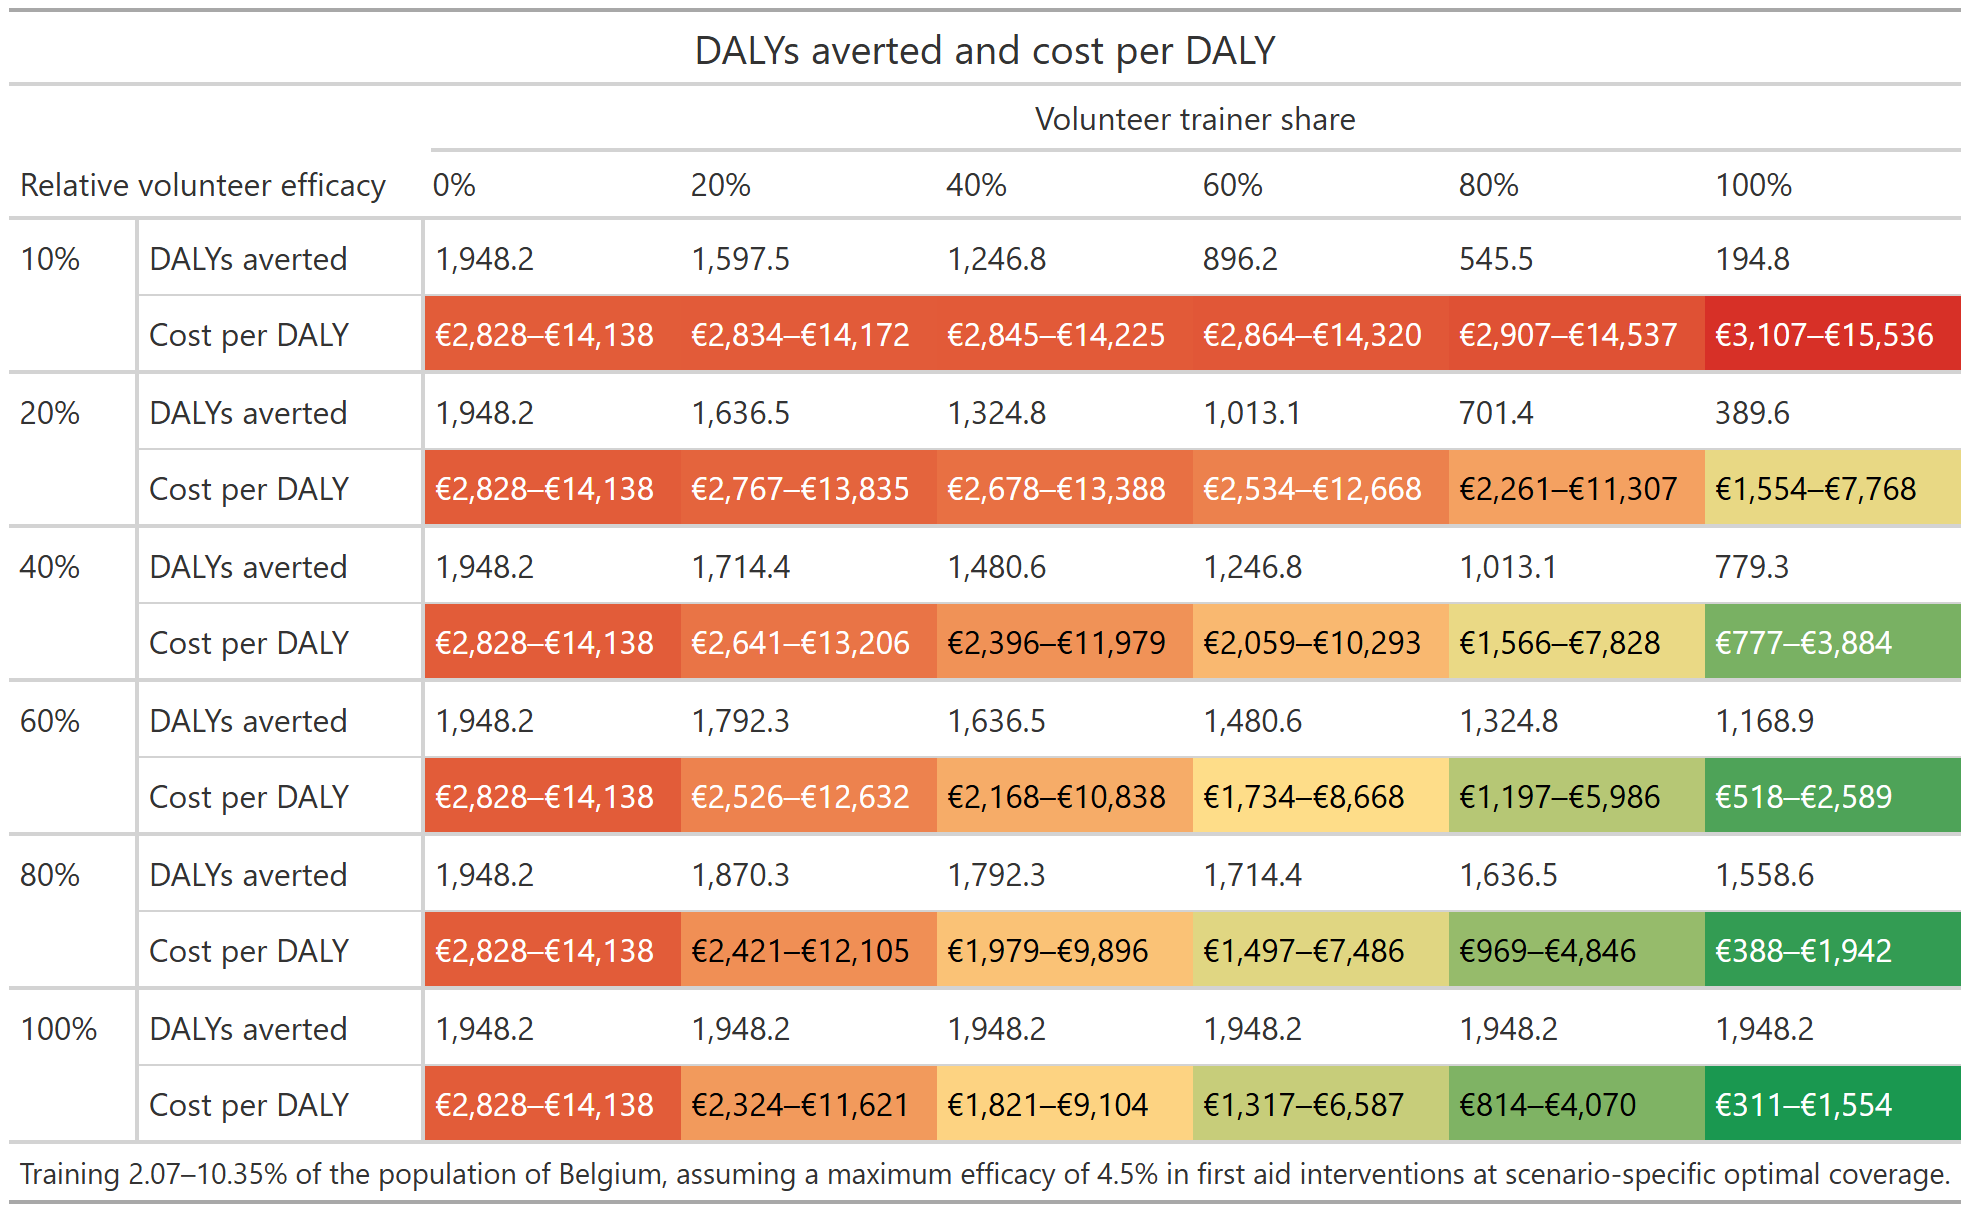
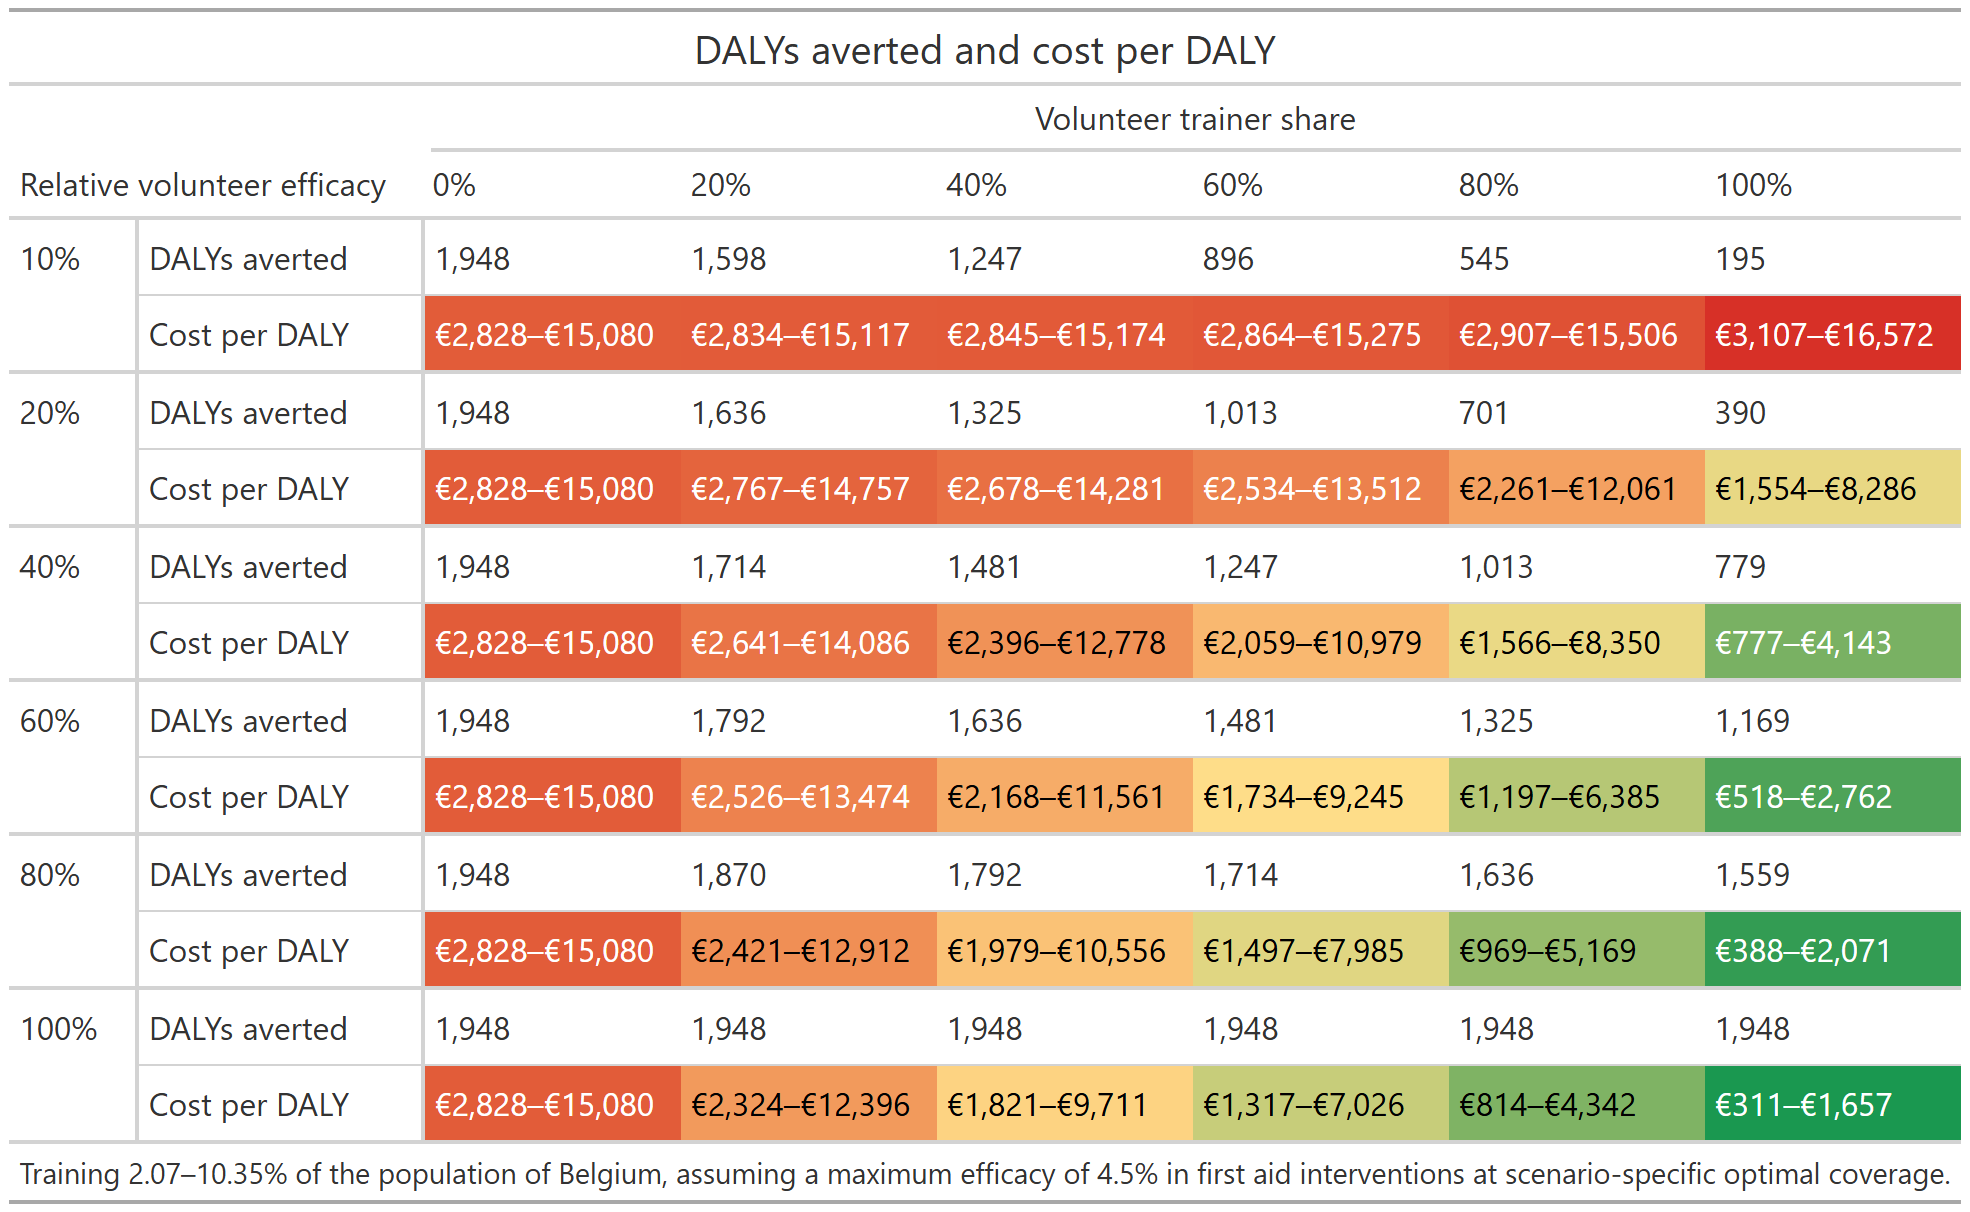
Cleanup and creating readme

diff --git a/README.md b/README.md
@@ -1,2 +1,99 @@
-# First Aid
+# Cost-effectiveness of Volunteer-led First Aid Training in Belgium
+
+This repository contains the data and code used to estimate the cost-effectiveness of first aid training systems in Belgium, 
+focusing on road traffic injuries (RTIs). The analysis combines epidemiological data, assumptions on clinical and behavioural effectiveness, 
+and different training system configurations (paid and volunteer trainers).
+
+## Project structure
+
+The repository is organized as follows:
+
+```         
+├── scripts/        # R scripts for modelling and data processing
+├── data_raw/       # Raw input data (external sources)
+├── data_clean/     # Processed data and model outputs
+├── outputs/        # Tables and figures used in the paper
+```
+
+## Requirements
+The project is written in R.
+Required packages:
+library(ggplot2)
+library(here)
+library(dplyr)
+library(tidyr)
+library(eurostat)
+library(sf)
+
+## Model
+
+The model estimates:
+
+- DALYs averted by first aid training
+- Total training costs
+- Cost per DALY averted
+
+across combinations of:
+
+- training coverage
+- volunteer trainer share
+- volunteer trainer effectiveness
+
+To reproduce results:
+
+
+Run data preprocessing:eu_nuts_density_pop.R
+Run main model script (coverage-specific):model_main.R
+Generate tables:table_generation.R
+
+All data sources are public (GBD, Eurostat, Statbel)
+
+
+### Population density data
+
+Script:
+```
+scripts/eu_nuts_density_pop.R
+```
+
+This script:
+
+- Retrieves Eurostat population and density data
+- Aggregates NUTS-3 data to NUTS-1 regions
+- Produces a population-weighted density table
+- Overrides Belgian densities using official statistics (STATBEL)
+
+Output:
+```
+data_clean/final_nuts1_population_density_2023.csv
+```
+
+## Outputs
+
+The model generates:
+### 1. DALYs averted table
+
+Rows: volunteer effectiveness
+Columns: volunteer share
+
+Saved as:
+```
+data_clean/dalys_raw{coverage}.rds
+```
+
+### 2. Cost per DALY table
+
+Same structure as DALYs table
+
+Saved as:
+```
+data_clean/cost_raw{coverage}.rds
+```
+
+### 3. Total training cost table
+
+- By volunteer share
+- Independent of effectiveness
+
+
 